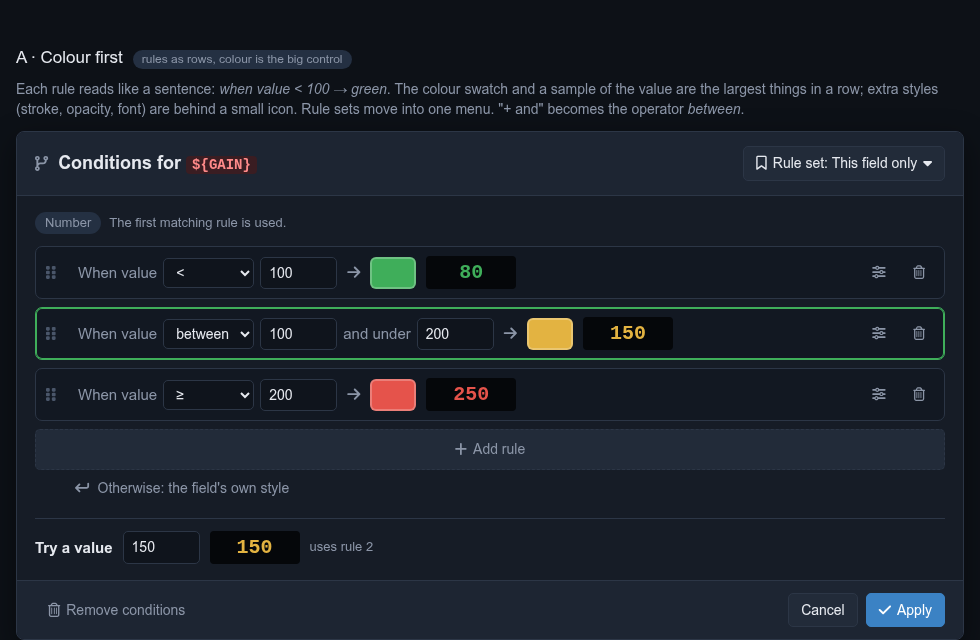
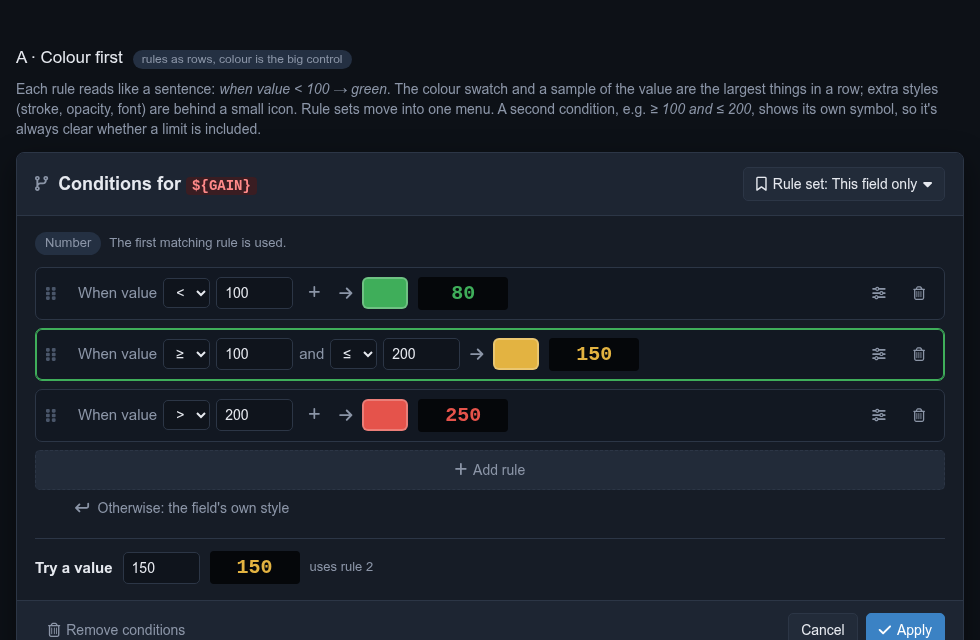
Mockups: explicit symbols for both limits instead of "under" (Eric's feedback)
Claude-Session: https://claude.ai/code/session_013VufbhKiG2dhQQyU4EfvBn

diff --git a/index.html b/index.html
@@ -113,7 +113,7 @@ body.only .page { padding-top: 12px; }
 	<!-- ================= Variant A ================= -->
 	<section id="a">
 	<div class="variant-title"><span>A · Colour first</span><span class="tag">rules as rows, colour is the big control</span></div>
-	<p class="idea">Each rule reads like a sentence: <em>when value &lt; 100 → green</em>. The colour swatch and a sample of the value are the largest things in a row; extra styles (stroke, opacity, font) are behind a small icon. Rule sets move into one menu. "+ and" becomes the operator <em>between</em>.</p>
+	<p class="idea">Each rule reads like a sentence: <em>when value &lt; 100 → green</em>. The colour swatch and a sample of the value are the largest things in a row; extra styles (stroke, opacity, font) are behind a small icon. Rule sets move into one menu. A second condition, e.g. <em>≥ 100 and ≤ 200</em>, shows its own symbol, so it's always clear whether a limit is included.</p>
 	<div class="modal">
 		<div class="mh"><i class="fa-solid fa-code-branch muted"></i><h2>Conditions for <code>${GAIN}</code></h2>
 			<div class="dropdown"><button class="btn" data-menu="a-menu"><i class="fa-regular fa-bookmark"></i> Rule set: This field only <i class="fa-solid fa-caret-down"></i></button>
@@ -170,7 +170,7 @@ body.only .page { padding-top: 12px; }
 			<div class="c-legend">
 				<button class="btn" id="c-split"><i class="fa-solid fa-plus"></i> Add band</button>
 				<button class="btn" id="c-merge"><i class="fa-solid fa-minus"></i> Remove band</button>
-				<span class="muted small" style="align-self:center">A limit belongs to the band on its right (≥).</span>
+				<span class="muted small" style="align-self:center">Each limit belongs to the band on its right, as the labels show.</span>
 			</div>
 			<div class="try"><strong>Try a value</strong><input type="number" class="tryval" value="150" id="c-num"><span class="sample" id="c-sample">150</span></div>
 			<div class="section-label" style="margin-top:20px">Yes / No variables would look like this</div>
@@ -188,7 +188,7 @@ body.only .page { padding-top: 12px; }
 	<table class="compare">
 		<tr><th></th><th>A · Colour first</th><th>B · Preview first</th><th>C · Colour bands</th></tr>
 		<tr><td>Main action</td><td>Big swatch per rule</td><td>Live preview at the top</td><td>Click a band</td></tr>
-		<tr><td>Ranges (11 &lt; x ≤ 12)</td><td>Operator "between"</td><td>Operator "between"</td><td>Just a band</td></tr>
+		<tr><td>Ranges (11 &lt; x ≤ 12)</td><td>Two symbols: &gt; 11 and ≤ 12</td><td>Two symbols: &gt; 11 and ≤ 12</td><td>A band, labelled with symbols</td></tr>
 		<tr><td>Order of rules</td><td>Drag handle</td><td>Arrows, match is ticked</td><td>Not needed</td></tr>
 		<tr><td>Text / Yes-No</td><td>Same rows</td><td>Same table</td><td>Needs rows (A) / cards</td></tr>
 		<tr><td>Change to the saved format</td><td>None</td><td>None</td><td>None (bands are saved as rules)</td></tr>
@@ -197,28 +197,33 @@ body.only .page { padding-top: 12px; }
 </div>
 
 <script>
-const OPS = { '<': (v, a) => v < a, '≤': (v, a) => v <= a, '>': (v, a) => v > a, '≥': (v, a) => v >= a, '=': (v, a) => v === a, 'between': (v, a, b) => v >= a && v < b };
+const OPS = { '<': (v, a) => v < a, '≤': (v, a) => v <= a, '>': (v, a) => v > a, '≥': (v, a) => v >= a, '=': (v, a) => v === a };
 const rules = [
 	{ op: '<', a: 100, b: null, colour: '#3fae5a' },
-	{ op: 'between', a: 100, b: 200, colour: '#e3b341' },
-	{ op: '≥', a: 200, b: null, colour: '#e5534b' }
+	{ op: '≥', a: 100, op2: '≤', b: 200, colour: '#e3b341' },
+	{ op: '>', a: 200, b: null, colour: '#e5534b' }
 ];
 const FIELD_COLOUR = '#ffffff';
-function match(v) { for (let i = 0; i < rules.length; i++) { const r = rules[i]; if (OPS[r.op](v, r.a, r.b)) return i; } return -1; }
-function opSelect(r) {
-	return '<select>' + Object.keys(OPS).map(o => '<option' + (o === r.op ? ' selected' : '') + '>' + o + '</option>').join('') + '</select>';
+function match(v) { for (let i = 0; i < rules.length; i++) { const r = rules[i]; if (OPS[r.op](v, r.a) && (!r.op2 || OPS[r.op2](v, r.b))) return i; } return -1; }
+function opSelect(op) {
+	return '<select>' + Object.keys(OPS).map(o => '<option' + (o === op ? ' selected' : '') + '>' + o + '</option>').join('') + '</select>';
+}
+// A rule has one or two conditions; each shows its own symbol, so it's clear whether a limit is included.
+function condsHTML(r) {
+	let h = opSelect(r.op) + '<input type="number" value="' + r.a + '">';
+	if (r.op2) h += '<span class="muted">and</span>' + opSelect(r.op2) + '<input type="number" value="' + r.b + '">';
+	else h += '<button class="icon-btn" title="Add a second condition, e.g. ≤ 200"><i class="fa-solid fa-plus"></i></button>';
+	return h;
 }
 function condHTML(r) {
-	let h = '<span class="muted">When value</span>' + opSelect(r) + '<input type="number" value="' + r.a + '">';
-	if (r.op === 'between') h += '<span class="muted">and under</span><input type="number" value="' + r.b + '">';
-	return h;
+	return '<span class="muted">When value</span>' + condsHTML(r);
 }
 function renderA(v) {
 	const m = match(v);
 	document.getElementById('a-rules').innerHTML = rules.map((r, i) =>
 		'<div class="a-rule' + (i === m ? ' match' : '') + '"><i class="fa-solid fa-grip-vertical handle" title="Drag to change the order"></i>' +
 		'<div class="a-cond">' + condHTML(r) + '</div>' +
-		'<div style="display:flex;align-items:center;gap:10px"><i class="fa-solid fa-arrow-right a-arrow"></i><div class="swatch" style="background:' + r.colour + '" title="Colour"></div><span class="sample" style="color:' + r.colour + '">' + (r.op === '<' ? r.a - 20 : r.op === 'between' ? r.a + 50 : r.a + 50) + '</span></div>' +
+		'<div style="display:flex;align-items:center;gap:10px"><i class="fa-solid fa-arrow-right a-arrow"></i><div class="swatch" style="background:' + r.colour + '" title="Colour"></div><span class="sample" style="color:' + r.colour + '">' + (r.op === '<' ? r.a - 20 : r.a + 50) + '</span></div>' +
 		'<button class="icon-btn" title="Stroke, opacity, font" data-adv="' + i + '"><i class="fa-solid fa-sliders"></i></button>' +
 		'<button class="icon-btn del" title="Delete rule"><i class="fa-regular fa-trash-can"></i></button>' +
 		'<div class="adv" id="adv-' + i + '"><label><input type="checkbox"> Stroke <span class="swatch" style="width:26px;height:20px;background:#000"></span></label><label>Width <input type="number" value="2"></label><label>Opacity <input type="number" value="1" step="0.1"></label><label>Font <select><option>(field\'s own)</option><option>Arial</option></select></label><label>Size <input type="number" placeholder="–"></label></div>' +
@@ -229,7 +234,7 @@ function renderA(v) {
 function renderB(v) {
 	const m = match(v);
 	document.getElementById('b-table').innerHTML = rules.map((r, i) =>
-		'<tr class="' + (i === m ? 'match' : '') + '"><td class="tick">' + (i === m ? '<i class="fa-solid fa-check"></i>' : '') + '</td><td class="if">If</td><td><div class="a-cond">' + opSelect(r) + '<input type="number" value="' + r.a + '">' + (r.op === 'between' ? '<span class="muted">and under</span><input type="number" value="' + r.b + '">' : '') + '</div></td>' +
+		'<tr class="' + (i === m ? 'match' : '') + '"><td class="tick">' + (i === m ? '<i class="fa-solid fa-check"></i>' : '') + '</td><td class="if">If</td><td><div class="a-cond">' + condsHTML(r) + '</div></td>' +
 		'<td><div class="swatch" style="background:' + r.colour + '"></div></td>' +
 		'<td class="acts"><button class="icon-btn" title="Stroke, opacity, font"><i class="fa-solid fa-sliders"></i></button><button class="icon-btn" title="Move up"><i class="fa-solid fa-arrow-up"></i></button><button class="icon-btn" title="Move down"><i class="fa-solid fa-arrow-down"></i></button><button class="icon-btn del" title="Delete"><i class="fa-regular fa-trash-can"></i></button></td></tr>').join('') +
 		'<tr class="' + (m < 0 ? 'match' : '') + '"><td class="tick">' + (m < 0 ? '<i class="fa-solid fa-check"></i>' : '') + '</td><td class="if muted">Else</td><td class="muted">the field\'s own style</td><td><div class="swatch" style="background:' + FIELD_COLOUR + ';opacity:.5"></div></td><td></td></tr>';
@@ -242,7 +247,7 @@ function bandFor(v) { let i = 0; while (i < limits.length && v >= limits[i]) i++
 function renderC(v) {
 	const bar = document.getElementById('c-bar');
 	const edges = [C_MIN, ...limits, C_MAX];
-	bar.innerHTML = bands.map((b, i) => '<div class="c-band" style="background:' + b.colour + ';flex:' + Math.max(edges[i + 1] - edges[i], 1) + '" title="Click to change the colour"><span class="lbl">' + (i === 0 ? '< ' + limits[0] : i === bands.length - 1 ? '≥ ' + limits[i - 1] : limits[i - 1] + ' – ' + limits[i]) + '</span><i class="fa-solid fa-pen"></i></div>').join('') +
+	bar.innerHTML = bands.map((b, i) => '<div class="c-band" style="background:' + b.colour + ';flex:' + Math.max(edges[i + 1] - edges[i], 1) + '" title="Click to change the colour"><span class="lbl">' + (i === 0 ? 'GAIN < ' + limits[0] : i === bands.length - 1 ? 'GAIN ≥ ' + limits[i - 1] : limits[i - 1] + ' ≤ GAIN < ' + limits[i]) + '</span><i class="fa-solid fa-pen"></i></div>').join('') +
 		'<div class="c-marker" style="left:' + (Math.min(Math.max((v - C_MIN) / (C_MAX - C_MIN), 0), 1) * 100) + '%"></div>';
 	const th = document.getElementById('c-th');
 	th.innerHTML = bands.map((b, i) => '<div class="slot" style="flex:' + Math.max(edges[i + 1] - edges[i], 1) + '">' + (i > 0 ? '<div class="th"><input type="number" value="' + limits[i - 1] + '" data-lim="' + (i - 1) + '"><span class="incl">limit</span></div>' : '') + '</div>').join('');
